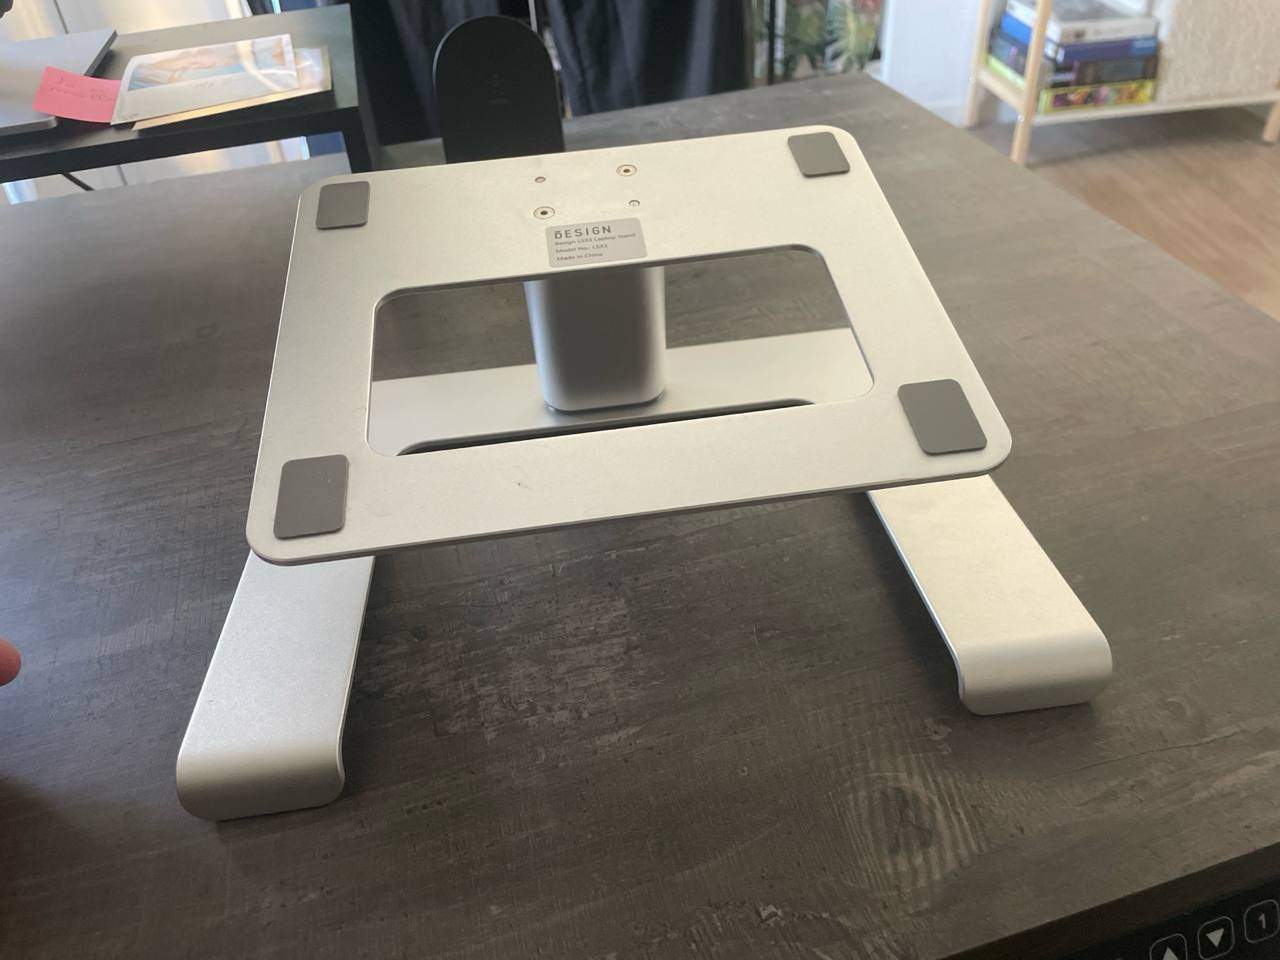
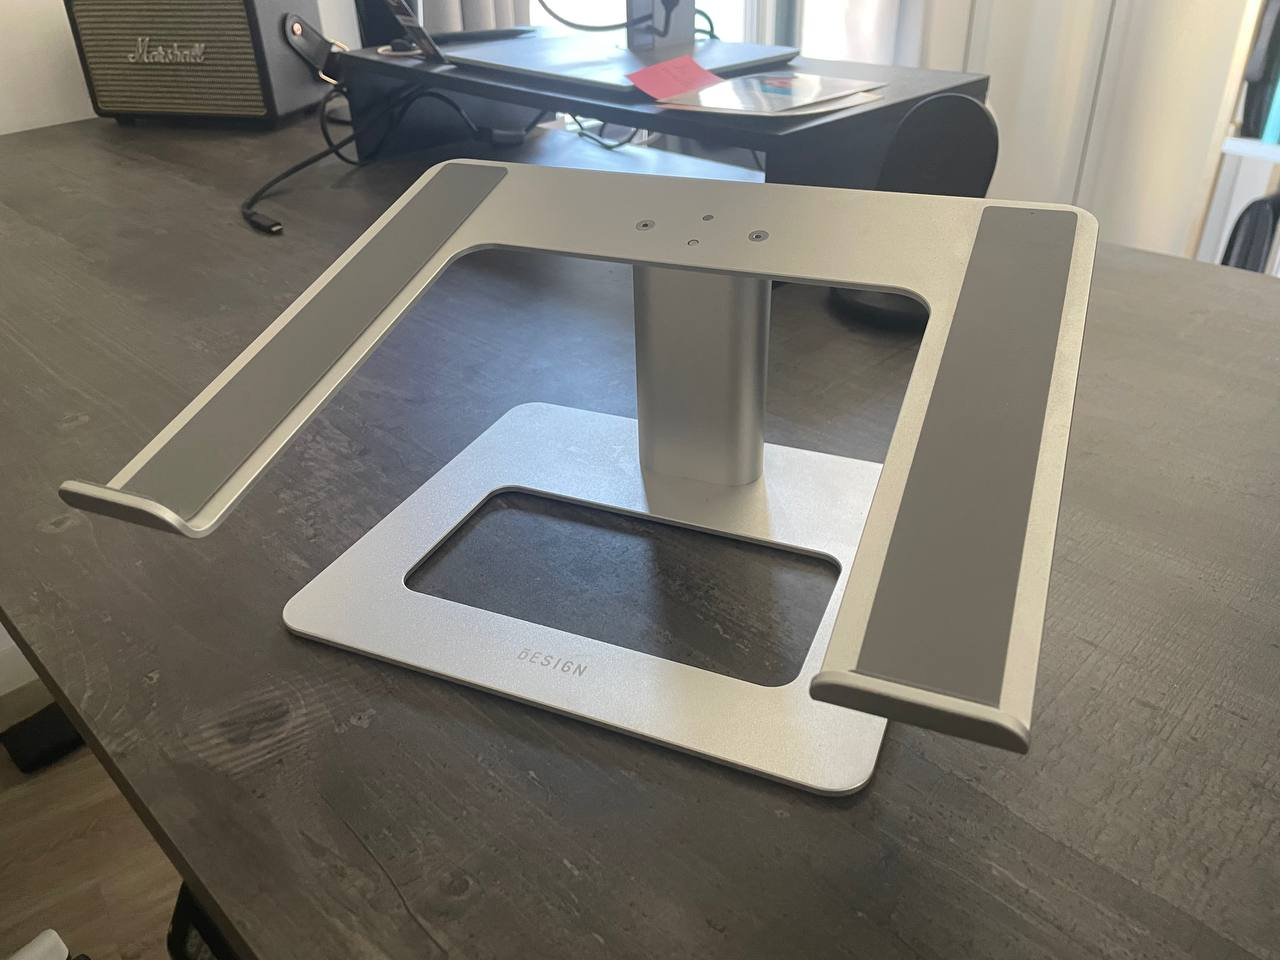
Replace BESIGN laptop stand photo with clearer shot

diff --git a/annonce-5.md b/annonce-5.md
@@ -22,4 +22,4 @@ Permet de surélever l'ordinateur sur un bureau pour une meilleure posture et ve
 À retirer sur place.
 
 ## Image
-- `images/ann-5-besign.jpg`
+- `images/ann-5-besign.jpg` (logo BESIGN gravé visible sur la base)
